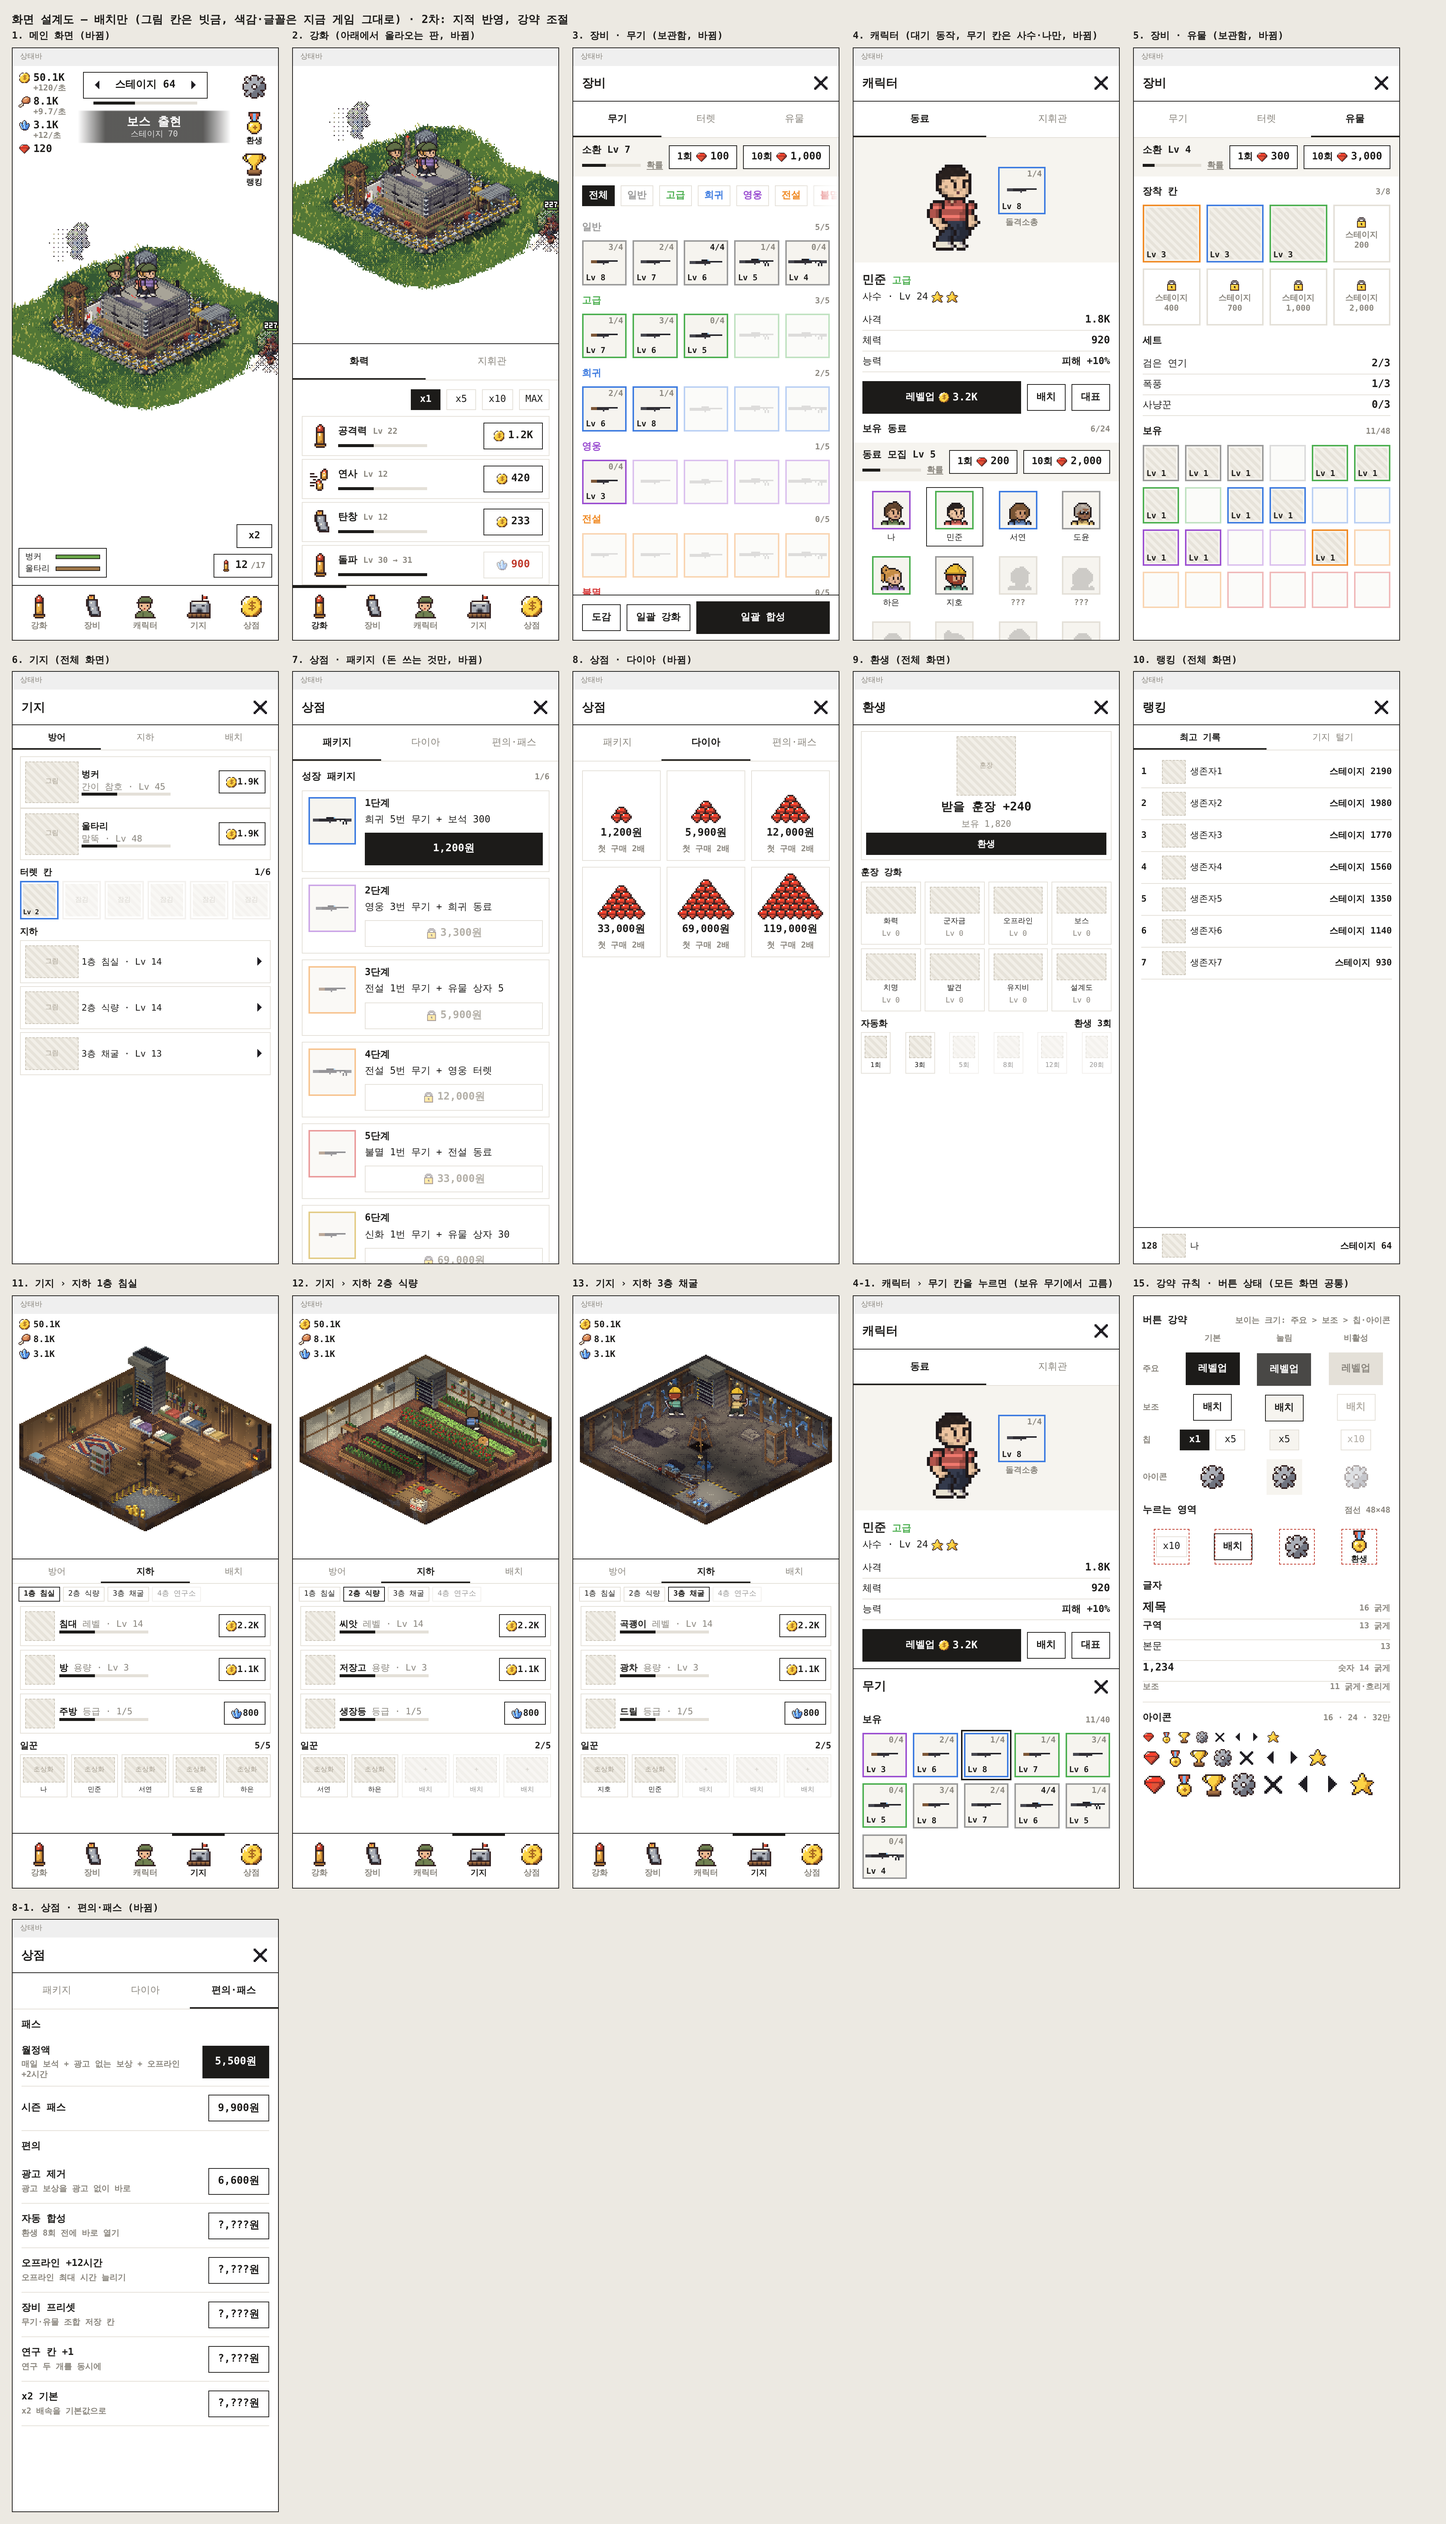
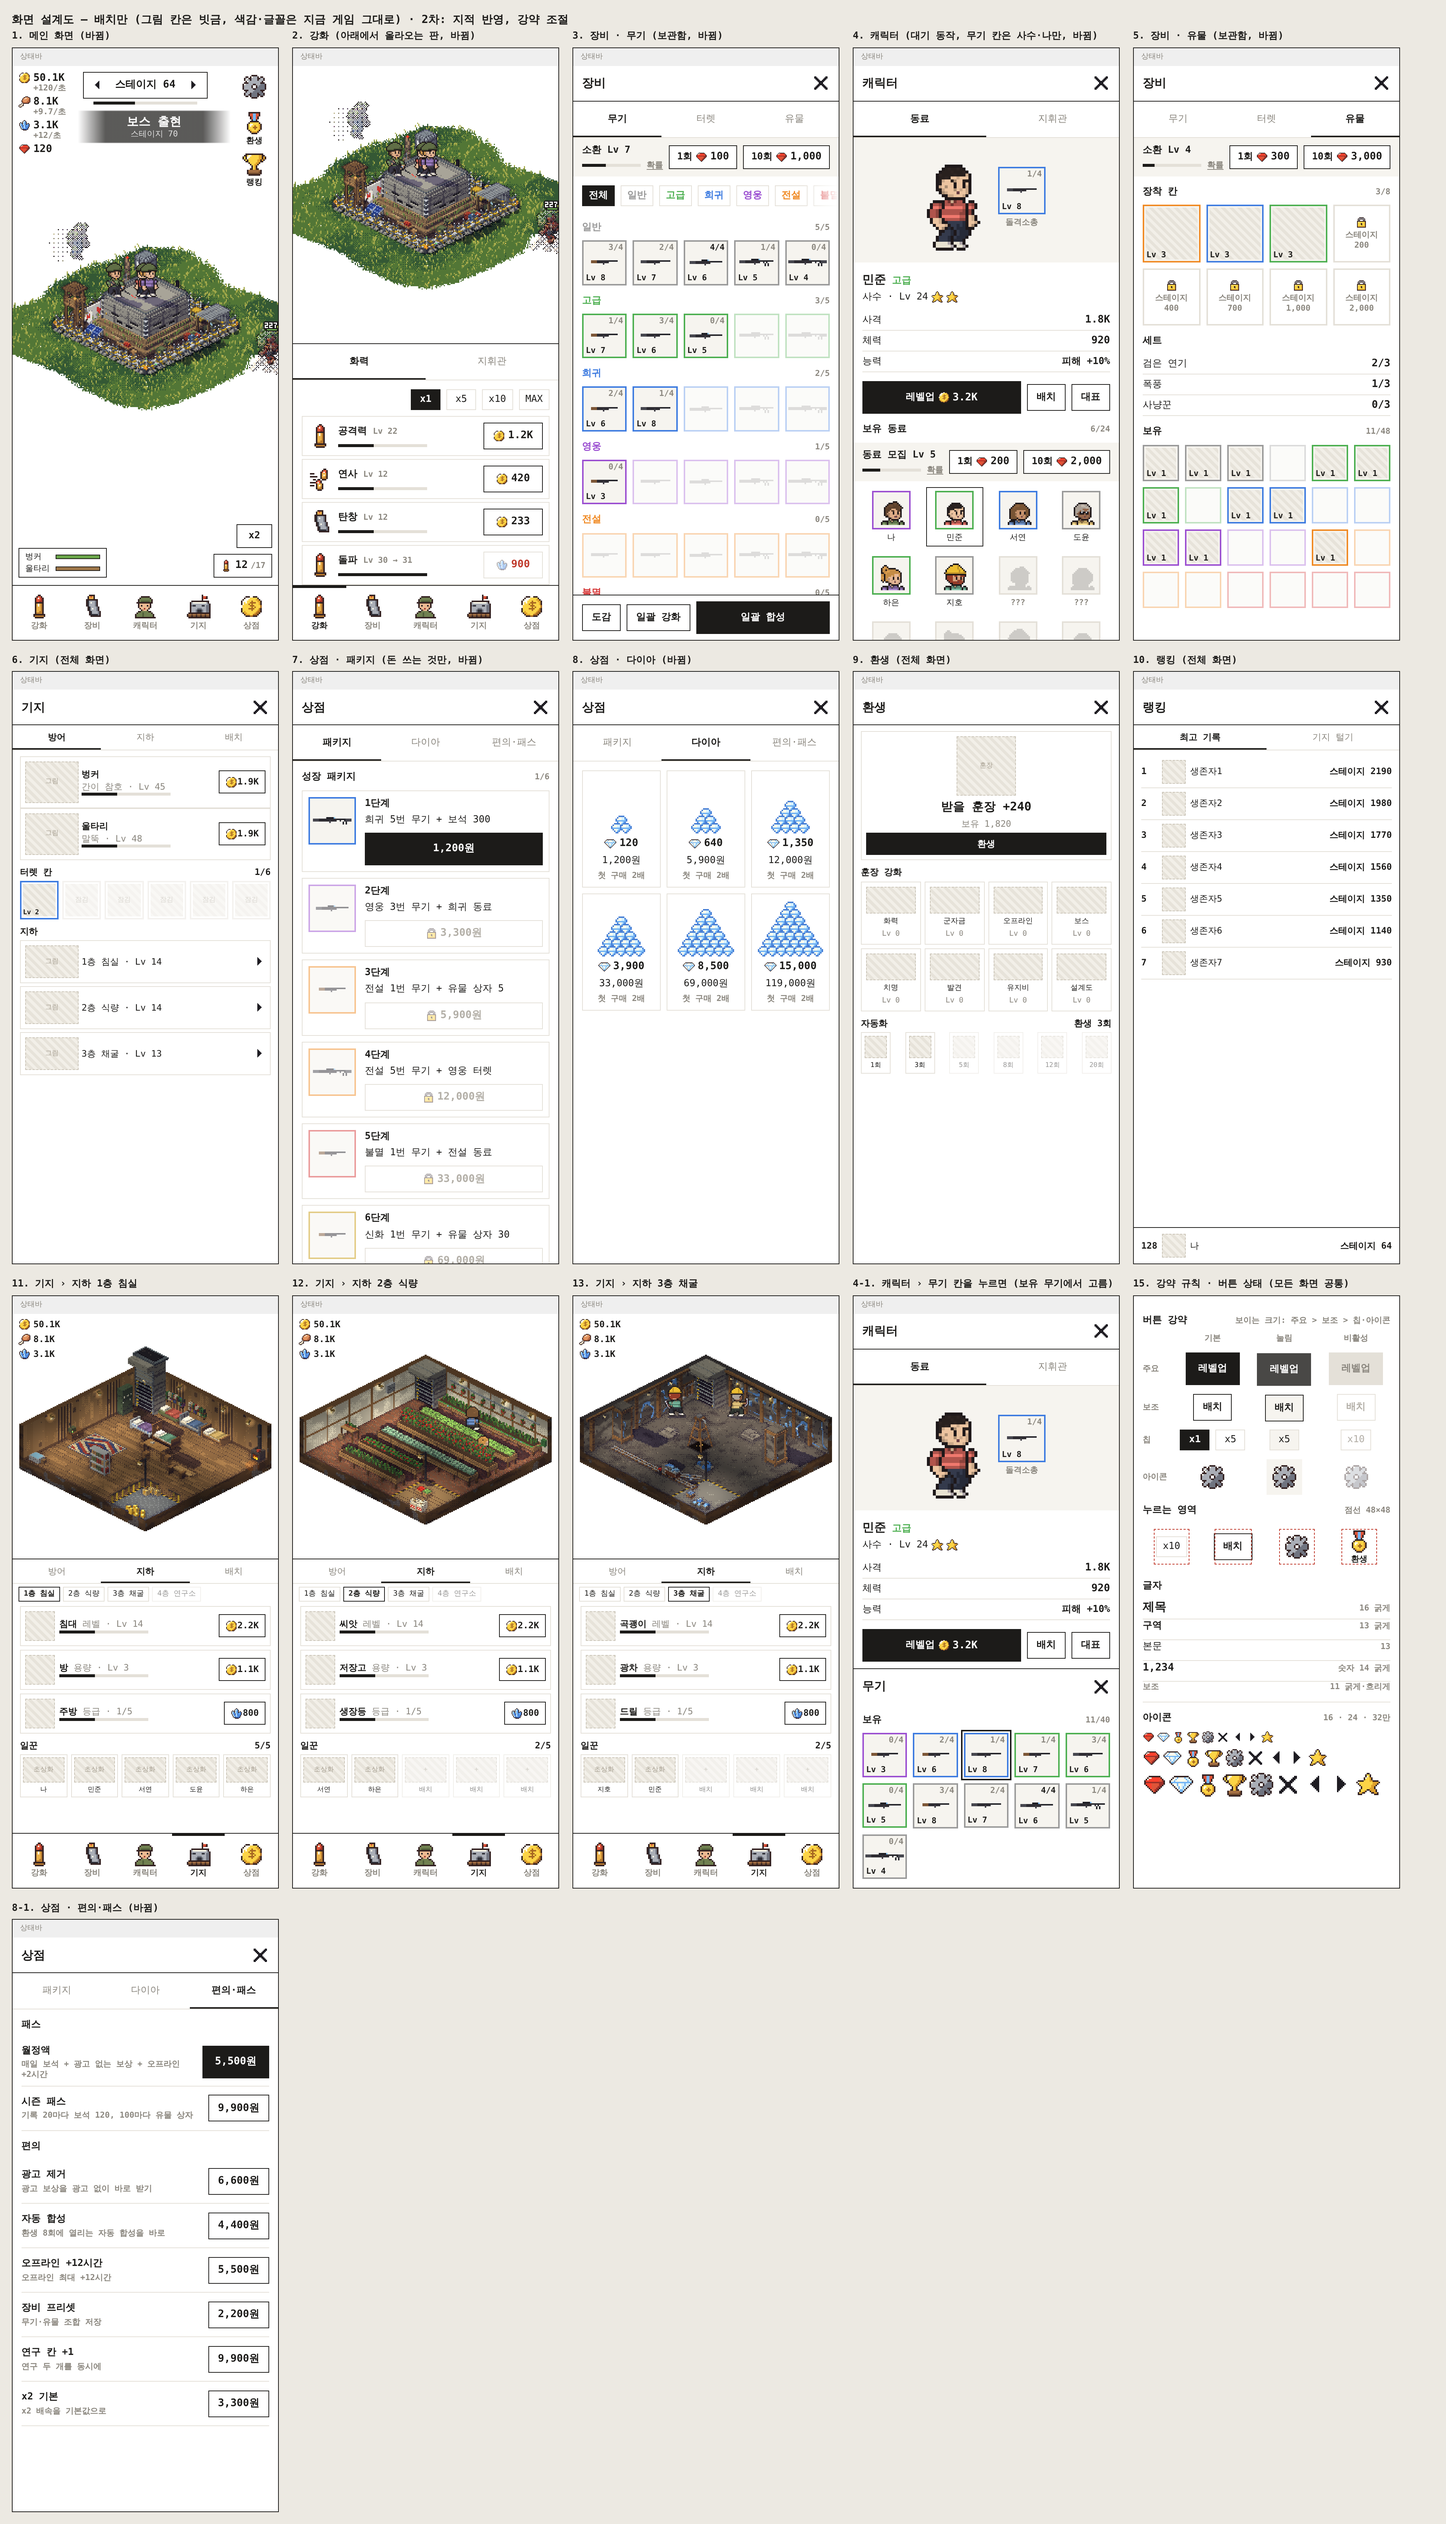
벙커 게임(작업 중): 설계도 다이아 아이콘·편의 상품 가격 반영
Claude-Session: https://claude.ai/code/session_01USGU6N83yXkH8dgcQ8Ce2W

Changed region(s): [[0.4033, 0.3114, 0.5895, 0.4048], [0.8067, 0.6851, 0.8997, 0.7162], [0.9308, 0.6851, 0.9618, 0.7162]]

diff --git a/bunker/src/under.js b/bunker/src/under.js
@@ -455,6 +455,8 @@ function steelWall(a, z, ix, iy) {
 // a drawing takes its main colour through mat(colour, grade)
 const GRADE_C = [[176, 112, 64], [196, 204, 212], [236, 190, 64], [220, 228, 232], [150, 226, 250], [200, 52, 72], [56, 180, 110], [64, 104, 210], [150, 92, 206], [52, 46, 64]];
 const mat = (c, g) => g ? GRADE_C[(g - 1) % GRADE_C.length] : c;
+// the military era's materials, the same on every floor: olive paint, pale paint, warm concrete, the painted aisle
+const R_ODW = rampOf([98, 110, 78]), R_PALEW = rampOf([206, 200, 180]), R_CONCW = rampOf([140, 134, 122]), R_AISLE = rampOf([112, 120, 98]);
 function drawPart(art, k, look, fz) {
   const eras = art[k];
   let e = look.era, s = look.step[k], g = look.grade[k];
@@ -499,6 +501,8 @@ function livingPaint(L, fz, look) {
       if (a > st && b > st) return a < st + .14 || b < st + .14 ? hazard(a, b) : plateAt(a, b, ix, iy);
       if (floorMat === 0) return dirtAt(a, b, ix, iy);
       if (floorMat === 1) return planksAt(a, b, ix, iy);
+      // the aisle in front of the bunks painted, edged in yellow
+      if (a > 1.9 && a < st + .3 && b > .95 && b < 2.45) return b < 1.0 || b > 2.4 ? rgb(214, 176, 52) : pick(R_AISLE, 2.5 + nz(a * 3, b * 3) * .4, ix, iy, .3);
       return (a % 1.8) < .025 || (b % 1.8) < .025 ? R_CONCW[1] : pick(R_CONCW, 2.3 + nz(a * 1.5, b * 1.5) * .6, ix, iy, .5);
     },
     back(x, z, ix, iy) { return wall(x - x0, z - fz, ix, iy); },
@@ -1081,6 +1085,14 @@ function messTable(fz, g) {
   for (const [ya, yz] of [[y0 - .5, y0 - .22], [y1 + .22, y1 + .5]]) { for (const x of [x0 + .2, x1 - .26]) fbox(x, ya + .08, fz, x + .06, yz - .08, fz + .42, leg, 1582); sbox(x0 + .1, ya, fz + .42, x1 - .1, yz, fz + .47, top, 1583); footShadow(x0 + .1, ya, x1 - .1, yz, .45); }
   for (let k = 0; k < 4; k++) { const x = x0 + .25 + k * .52, y = k & 1 ? y0 + .1 : y1 - .34; sbox(x, y, fz + .78, x + .32, y + .24, fz + .8, [176, 182, 190], 1584 + k); drum(x + .42, y + .12, fz + .78, fz + .9, .045, [96, 108, 76], 1588 + k, .3); }
   footShadow(x0, y0, x1, y1, .78);
+  // the field radio on an ammo crate at the end of the table, its aerial up
+  const rx = x1 + .35, ry = y0 + .05;
+  sbox(rx, ry, fz, rx + .5, ry + .6, fz + .42, OD_D, 1592);
+  onY(ry + .6, rx + .04, rx + .46, fz + .04, fz + .38, (xx, z) => Math.abs(z - fz - .3) < .02 ? rgb(46, 52, 36) : Math.abs(xx - rx - .25) < .06 && Math.abs(z - fz - .17) < .04 ? rgb(226, 222, 200) : 0);
+  sbox(rx + .06, ry + .1, fz + .42, rx + .44, ry + .48, fz + .72, [84, 94, 66], 1593);
+  onY(ry + .48, rx + .1, rx + .4, fz + .46, fz + .68, (xx, z) => Math.abs(xx - rx - .17) < .06 && Math.abs(z - fz - .6) < .04 ? lit(rgb(255, 196, 90)) : Math.hypot(xx - rx - .32, z - fz - .56) < .05 ? rgb(30, 30, 34) : (Math.floor((z - fz) * 40) & 1) && xx < rx + .26 && z - fz < .52 ? rgb(52, 58, 42) : 0);
+  ln([rx + .4, ry + .14, fz + .72], [rx + .46, ry + .1, fz + 1.5], rgb(40, 40, 44));
+  footShadow(rx, ry, rx + .5, ry + .6, .72);
 }
 // military era: a row of steel lockers along the left wall by the ladder, doors to the room, each stencilled
 function steelLockers(fz, g) {
@@ -1104,11 +1116,22 @@ function showerStall(fz, g) {
   fbox(x0, y0 + .5, fz + 1.86, x0 + .32, y0 + .56, fz + 1.9, METAL, 1623); fbox(x0 + .26, y0 + .44, fz + 1.74, x0 + .38, y0 + .62, fz + 1.86, METAL, 1624);
   for (let k = 0; k < 5; k++) pt(x0 + .32, y0 + .5 + k * .025, fz + 1.6 - k * .12, rgb(200, 226, 240));
   fbox(x0 + .02, y1 - .4, fz + 1.2, x0 + .08, y1 - .1, fz + 1.55, [96, 108, 76], 1625);
+  // a steel basin on its pipe beside the stall, a mirror over it
+  const sy = y0 - .62;
+  fbox(x0 + .1, sy - .03, fz, x0 + .16, sy + .03, fz + .72, METAL, 1626);
+  sbox(x0 + .02, sy - .24, fz + .72, x0 + .44, sy + .24, fz + .86, steel, 1627);
+  onZ(fz + .86, x0 + .06, sy - .2, x0 + .4, sy + .2, (xx, yy) => Math.hypot(xx - x0 - .23, yy - sy) < .14 ? rgb(90, 96, 104) : 0);
+  fbox(x0 + .02, sy - .02, fz + .86, x0 + .1, sy + .02, fz + 1.02, METAL, 1628);
+  onX(x0 + .006, sy - .22, sy + .22, fz + 1.12, fz + 1.62, (yy, z) => Math.abs(yy - sy) > .19 || z - fz < 1.15 || z - fz > 1.59 ? rgb(90, 96, 104) : (yy - sy + (z - fz) * .5) % .3 < .05 ? rgb(236, 244, 248) : rgb(170, 196, 210));
+  footShadow(x0 + .02, sy - .24, x0 + .44, sy + .24, .86);
 }
 // military era: the floor number stencilled big on the left wall
-function wallNumber(fz, g) { const num = stencil('01', yb(3.3), fz + 1.25, .17, .14); onX(UG.x0 + .005, yb(3.3), yb(4.4), fz + 1.25, fz + 2.0, (y, z) => num(y, z) ? rgb(...mat([236, 232, 214], g)) : 0); }
+function wallNumber(fz, g) {
+  const y0 = yb(5.45), num = stencil('01', y0 + .1, fz + 1.22, .17, .14), c = mat([236, 232, 214], g);
+  onX(UG.x0 + .005, y0, y0 + 1.15, fz + 1.12, fz + 2.0, (y, z) => num(y, z) ? rgb(...c) : Math.abs(z - fz - 1.15) < .025 || Math.abs(z - fz - 1.97) < .025 ? rgb(...c) : 0);
+}
 const LIVE_ART = {
-  lighting: [[liveLantern, brassLamps], [(fz, g) => cagedLamps(0, fz, g, [3.0, 5.0, 7.0, RL() - 1.6], [6.2, RL() - 2.6], .7)]],
+  lighting: [[liveLantern, brassLamps], [(fz, g) => cagedLamps(0, fz, g, [3.0, 5.0, 7.0, RL() - 1.6], [7.1, RL() - 3.5], .7)]],
   lounge: [[movedInLounge, crateTable], [messTable]],
   kitchen: [[waterAndCrate, stoveCorner], [fieldKitchen]],
   decor: [[lumber], [wallNumber]],
@@ -1136,7 +1159,6 @@ function farmRows() {
 }
 const LEAF_D = [52, 104, 52], LEAF = [78, 140, 62], LEAF_L = [118, 178, 82], LETTUCE = [150, 204, 100];
 const R_FSOIL = rampOf([96, 70, 50]), R_CONC = rampOf([150, 150, 142]), R_PALLET = rampOf([176, 140, 96]);
-const R_ODW = rampOf([98, 110, 78]), R_PALEW = rampOf([206, 200, 180]), R_CONCW = rampOf([140, 134, 122]);
 // earth walls and a dirt floor at first; from the military era painted concrete (an olive dado, pale above, the
 // formwork seams) and a concrete floor with the corridor marked in yellow
 function farmPaint(L, fz, look) {

diff --git a/bunker/samples/ui-plan/index.html b/bunker/samples/ui-plan/index.html
@@ -178,7 +178,7 @@
   .pk .b { margin-top: 4px; width: 100%; }
   .pk.locked .slot2 { opacity: .5; }
   .gem { display: grid; justify-items: center; gap: 4px; padding: 8px; border: 1px solid var(--line); }
-  .gem .pile { height: 62px; display: flex; align-items: flex-end; }
+  .gem .pile { height: 76px; display: flex; align-items: flex-end; }
   .gem .amt { display: flex; align-items: center; gap: 4px; }
   /* 편의·패스: a name, what it does, its price */
   .cv { display: flex; align-items: center; gap: 8px; min-height: 60px; padding: 8px 0; border-bottom: 1px solid var(--line); }
@@ -189,7 +189,7 @@
   .tapdemo { display: flex; align-items: center; justify-content: space-around; height: 64px; }
   .types > div { display: flex; justify-content: space-between; align-items: baseline; height: 28px; border-bottom: 1px solid var(--line); }
   .sizes { display: grid; gap: 8px; }
-  .sizes > div { display: flex; align-items: center; gap: 8px; }
+  .sizes > div { display: flex; align-items: center; gap: 4px; }
   .still .spr { animation-play-state: paused !important; }
 </style>
 </head>
@@ -229,10 +229,11 @@ const B = (cls, inner) => `<span class="b ${cls} tap">${inner}</span>`;
 const cost = (res, n, short) => `${ico(res)}<span class="num${short ? ' short' : ''}">${n}</span>`;
 const chip = (t, cls = '', g) => `<span class="chip tap ${cls}${g != null ? ' gq q' + g : ''}">${t}</span>`;
 const strip = (label, pct, one, ten) => `<div class="strip"><div class="lv tap" aria-label="소환 확률"><b>${label}</b><span><span class="prog2"><i style="width:${pct}%"></i></span><span class="link">확률</span></span></div>${B('sub sm', '1회 ' + cost('ruby', one))}${B('sub sm', '10회 ' + cost('ruby', ten))}</div>`;
-// a small cut diamond (8x6) in the 다이아 icon's colours; a pile is rows of them, the bottom row widest, drawn back to front
-const DIA = ['.oooooo.', 'oWWBWLLo', 'oBBBBBBo', '.oWBLLo.', '..oWLo..', '...oo...'];
+// a small cut diamond (8x7) in the 다이아 icon's colours, outlined in blue so a heap of them stays light; a pile is rows
+// of them, the bottom row widest, drawn back to front
+const DIA = ['..bbbb..', '.bWWLLb.', 'bWWWLLBb', 'bBBBBBBb', '.bWWLBb.', '..bWBb..', '...bb...'];
 function pile(rows, s = 2) {
-  const dx = 6, dy = 4, w = dx * (rows - 1) + 8, h = dy * (rows - 1) + DIA.length, c = document.createElement('canvas'), g = c.getContext('2d');
+  const dx = 6, dy = 5, w = dx * (rows - 1) + 8, h = dy * (rows - 1) + DIA.length, c = document.createElement('canvas'), g = c.getContext('2d');
   c.width = w; c.height = h;
   for (let r = 0; r < rows; r++) for (let i = 0; i <= r; i++) DIA.forEach((row, y) => [...row].forEach((ch, x) => { if (ch !== '.') { const [R, G, B] = ART.iconPal[ch]; g.fillStyle = `rgb(${R},${G},${B})`; g.fillRect(3 * (rows - 1 - r) + i * dx + x, r * dy + y, 1, 1); } }));
   return `<img class="gun" src="${c.toDataURL()}" style="width:${w * s}px;height:${h * s}px" alt="">`;

diff --git a/bunker/tests/run.js b/bunker/tests/run.js
@@ -1,0 +1,33 @@
+// Runs every test: node bunker/tests/run.js [--sim]
+//   unit/*.test.mjs   each exports `tests` = [[name, fn], ...]
+//   a short simulation smoke run (human bot, free player, to stage 60)
+//   --sim             also the full acceptance report (tests/sim/report.mjs, a few minutes)
+const fs = require('fs');
+const path = require('path');
+const { pathToFileURL } = require('url');
+
+(async () => {
+  const dir = path.join(__dirname, 'unit');
+  let pass = 0, fail = 0;
+  for (const file of fs.readdirSync(dir).filter(f => f.endsWith('.test.mjs')).sort()) {
+    const { tests } = await import(pathToFileURL(path.join(dir, file)).href);
+    for (const [name, fn] of tests) {
+      const t0 = Date.now();
+      try { await fn(); pass++; console.log(`  ok   ${file} > ${name} (${Date.now() - t0} ms)`); }
+      catch (e) { fail++; console.log(`  FAIL ${file} > ${name}\n       ${String(e && e.message).split('\n').join('\n       ')}`); }
+    }
+  }
+  const sim = await import(pathToFileURL(path.join(__dirname, 'sim', 'sim.mjs')).href);
+  try {
+    const M = sim.run({ bot: 'human', profile: 'f2p', untilStage: 60, days: 10, seed: 1 });
+    if (M.st.record < 60) throw new Error(`smoke run stopped at stage ${M.st.record}`);
+    pass++; console.log(`  ok   sim smoke > human/f2p reaches stage 60 (${M.endActive.toFixed(2)} h active)`);
+  } catch (e) { fail++; console.log(`  FAIL sim smoke > ${e.message}`); }
+  if (process.argv.includes('--sim')) {
+    const { report } = await import(pathToFileURL(path.join(__dirname, 'sim', 'report.mjs')).href);
+    const r = await report({ quiet: false });
+    for (const c of r.criteria) { if (c.pass) pass++; else fail++; console.log(`  ${c.pass ? 'ok  ' : 'FAIL'} criterion > ${c.name}: ${c.value}`); }
+  }
+  console.log(`\n${pass} passed, ${fail} failed`);
+  process.exit(fail ? 1 : 0);
+})();
